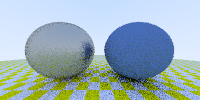
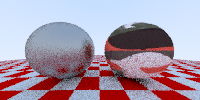
texture fetch

diff --git a/src/scene/simple_scene.rs b/src/scene/simple_scene.rs
@@ -11,9 +11,10 @@ impl SimpleScene {
         world.push(Box::new(Sphere::new(
             Float3::new(0.6, 0.0, -1.0),
             0.5,
-            Arc::new(Lambertian::new(Box::new(ColorTexture::new(Color::new(
-                0.1, 0.2, 0.5,
-            ))))),
+            Arc::new(Lambertian::new(Box::new(ImageTexture::new(
+                "resources/shivaduke.jpg",
+                (10.0, 10.0),
+            )))),
         )));
         world.push(Box::new(Sphere::new(
             Float3::new(-0.6, 0.0, -1.0),
@@ -42,7 +43,7 @@ impl SimpleScene {
             Arc::new(Lambertian {
                 albedo: Box::new(CheckerTexture::new(
                     Box::new(ColorTexture::new(Color::new(0.8, 0.8, 0.8))),
-                    Box::new(ColorTexture::new(Color::new(0.8, 0.0,0.0))),
+                    Box::new(ColorTexture::new(Color::new(0.8, 0.0, 0.0))),
                     10.0,
                 )),
             }),
@@ -239,5 +240,45 @@ impl Texture for CheckerTexture {
         } else {
             self.even.value(u, v, p)
         }
+    }
+}
+
+pub struct ImageTexture {
+    pixels: Vec<Color>,
+    width: usize,
+    height: usize,
+    scale: (f64, f64),
+}
+
+impl ImageTexture {
+    pub fn new(path: &str, scale: (f64, f64)) -> Self {
+        let rgbimg = image::open(path).unwrap().to_rgb8();
+        let (w, h) = rgbimg.dimensions();
+        let mut image = vec![Color::zero(); (w * h) as usize];
+        for (i, (_, _, pixel)) in image.iter_mut().zip(rgbimg.enumerate_pixels()) {
+            *i = Color::from_rgb(pixel[0], pixel[1], pixel[2]);
+        }
+        Self {
+            pixels: image,
+            width: w as usize,
+            height: h as usize,
+            scale: scale,
+        }
+    }
+
+    fn sample(&self, u: i64, v: i64) -> Color {
+        let tu = (u as usize).clamp(0, self.width - 1);
+        let tv = (v as usize).clamp(0, self.height - 1);
+        self.pixels[tu + self.width * tv]
+    }
+}
+
+impl Texture for ImageTexture {
+    fn value(&self, u: f64, v: f64, _p: Float3) -> Color {
+        let u = (u * self.scale.0).fract();
+        let v = (v * self.scale.1).fract();
+        let x = (u * self.width as f64) as i64;
+        let y = (v * self.height as f64) as i64;
+        self.sample(x, y)
     }
 }

diff --git a/src/scene/shape.rs b/src/scene/shape.rs
@@ -19,6 +19,15 @@ impl Sphere {
             material,
         }
     }
+
+    pub fn uv(p: Float3) -> (f64, f64) {
+        let phi = p.z().atan2(p.x());
+        let theta = p.y().asin();
+        (
+            1.0 - (phi + PI) * 0.5 * FRAC_1_PI,
+            (theta + PI * 0.5) * FRAC_1_PI,
+        )
+    }
 }
 
 impl Shape for Sphere {
@@ -35,8 +44,8 @@ impl Shape for Sphere {
             if t0 < t && t < t1 {
                 let p = ray.at(t);
                 let n = (p - self.center) / self.radius;
-                // todo: uv
-                let hit = HitInfo::new(t, p, n, Arc::clone(&self.material), 0.0, 0.0);
+                let (u, v) = Self::uv(p);
+                let hit = HitInfo::new(t, p, n, Arc::clone(&self.material), u, v);
                 return Some(hit);
             }
 
@@ -44,8 +53,8 @@ impl Shape for Sphere {
             if t0 < t && t < t1 {
                 let p = ray.at(t);
                 let n = (p - self.center) / self.radius;
-                // todo: uv
-                let hit = HitInfo::new(t, p, n, Arc::clone(&self.material), 0.0, 0.0);
+                let (u, v) = Self::uv(p);
+                let hit = HitInfo::new(t, p, n, Arc::clone(&self.material), u, v);
                 return Some(hit);
             }
         }
@@ -131,5 +140,10 @@ impl ShapeBuilder {
 
     pub fn build(self) -> Box<dyn Shape> {
         self.shape.unwrap()
+    }
+
+    pub fn image_texture(mut self, path: &str, scale: (f64, f64)) -> Self {
+        self.texture = Some(Box::new(ImageTexture::new(path, scale)));
+        self
     }
 }

diff --git a/src/rayt/render.rs b/src/rayt/render.rs
@@ -8,7 +8,7 @@ const OUTPUT_FILE_NAME: &str = "render.png";
 const BACKUP_FILE_NAME: &str = "render_bak.png";
 const IMAGE_WIDTH: u32 = 200;
 const IMAGE_HEIGHT: u32 = 100;
-const SAMPLES_PER_PIXEL: usize = 8;
+const SAMPLES_PER_PIXEL: usize = 10;
 const GAMMA_FACTOR: f64 = 2.2;
 const MAX_RAY_BOUNCE_DEPTH: usize = 50;
 
